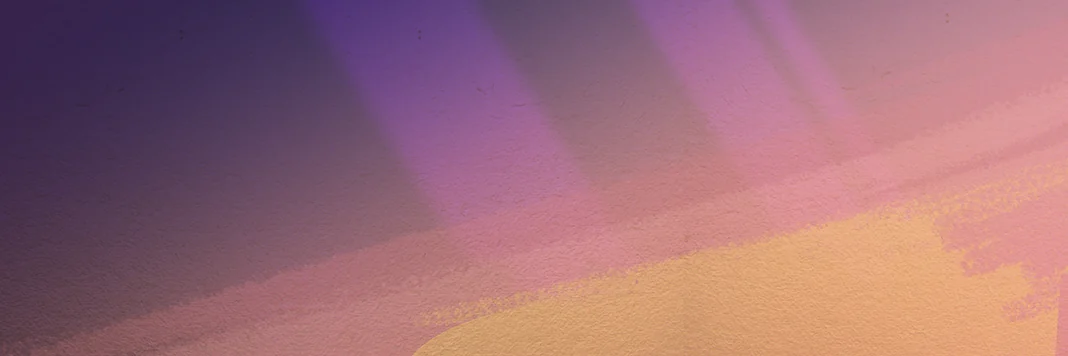
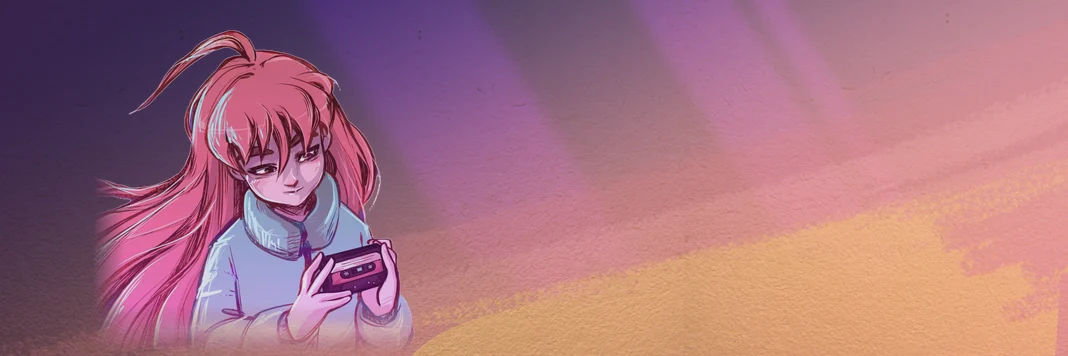
profile: Madeline portrait composited into the footer dusk band

Changed region(s): [[0.0927, 0.0927, 0.4017, 0.9888]]

diff --git a/tools/build_assets.py b/tools/build_assets.py
@@ -17,11 +17,13 @@ import os
 import sys
 from pathlib import Path
 
-from PIL import Image, ImageChops, ImageDraw, ImageFont, ImageStat
+from PIL import Image, ImageChops, ImageDraw, ImageFilter, ImageFont, ImageStat
+import numpy as np
 
 ROOT = Path(__file__).resolve().parents[1]
 OUT = ROOT / "assets"
 DEFAULT_SRC = ROOT.parent / "blog-ui"
+ART = ROOT.parent / "art"        # hand-made source art kept beside the palette
 
 PURPLE = (155, 135, 245)
 TINT_LIGHT = (58, 44, 92)         # heading text / icon glyph on the light page
@@ -30,6 +32,8 @@ CONTENT_W = 948          # GitHub renders the article at 948 CSS px on a 1280 vi
 Q_PAINT = 86             # painterly art: PSNR >= 44 dB at this point
 Q_PIXEL = 94             # pixel art / flat UI: keep edges clean
 Q_UI = 92
+DUSK = (128, 92, 158)    # the footer's violet ambient, used to grade the portrait
+
 
 
 # --------------------------------------------------------------------------- utils
@@ -112,8 +116,83 @@ def build_hero(src: Path, report: list) -> None:
     save(im, "hero.webp", Q_PAINT, report)
 
 
+def character_cutout(path: Path) -> Image.Image:
+    """Knock the white studio backdrop out of the portrait and keep a soft rim.
+
+    A plain colour key eats the near-white highlights in the hair and the pale
+    sweater, so the backdrop is flood-filled inward from the border instead: only
+    white that is connected to the frame is removed. The 2 px anti-aliased rim
+    that the fill leaves behind is turned into partial alpha and un-matted, which
+    stops a white halo from showing up once she sits on the violet dusk band.
+    """
+    art = Image.open(path).convert("RGB")
+    w, h = art.size
+    sentinel = (0, 255, 0)
+    work = art.copy()
+    px = work.load()
+
+    step = max(4, w // 160)
+    seeds = ([(x, 0) for x in range(0, w, step)] +
+             [(x, h - 1) for x in range(0, w, step)] +
+             [(0, y) for y in range(0, h, step)] +
+             [(w - 1, y) for y in range(0, h, step)])
+    for s in seeds:
+        r, g, b = px[s]
+        if (r, g, b) == sentinel or min(r, g, b) < 232:
+            continue
+        ImageDraw.floodfill(work, s, sentinel, thresh=26)
+
+    a = np.asarray(work).astype(np.float32)
+    bg = (a[:, :, 1] == 255) & (a[:, :, 0] == 0) & (a[:, :, 2] == 0)
+    dilated = np.asarray(
+        Image.fromarray(bg.astype(np.uint8) * 255).filter(ImageFilter.MaxFilter(5))
+    ) > 0
+    rim = dilated & ~bg
+
+    alpha = np.where(bg, 0.0, 1.0)
+    minc = a.min(axis=2)
+    alpha[rim] = np.clip((255.0 - minc[rim]) / 45.0, 0.0, 1.0)
+
+    al = alpha[:, :, None]
+    unmatted = np.clip((a - 255.0 * (1.0 - al)) / np.maximum(al, 1e-3), 0, 255)
+    out = Image.fromarray(np.dstack([unmatted, alpha * 255.0]).astype(np.uint8), "RGBA")
+    return trim(out)
+
+
+def composite_character(base: Image.Image, fig: Image.Image, x: int, height: int,
+                        fade: float = 0.16, fade_left: float = 0.10) -> Image.Image:
+    """Sit the portrait on the dusk band: grade it, dissolve its cut edges into the mist.
+
+    The grade is a light blend toward the band's own violet, so the pink hair and
+    the pale sweater still read as themselves instead of looking pasted on. The
+    bottom and left fades replace what would otherwise be two hard cuts — a bust
+    runs off the bottom edge of a 3:1 banner, and the illustration itself crops
+    the long hair at its left border.
+    """
+    k = height / fig.height
+    fig = fig.resize((max(1, round(fig.width * k)), height), Image.LANCZOS)
+
+    alpha = fig.getchannel("A")
+    rgb = fig.convert("RGB")
+    rgb = Image.blend(rgb, Image.new("RGB", rgb.size, DUSK), 0.12)
+    rgb = Image.eval(rgb, lambda v: int(v * 0.95))
+    fig = rgb.convert("RGBA")
+    fig.putalpha(alpha)
+
+    a = np.asarray(fig.getchannel("A")).astype(np.float32)
+    hh, ww = fig.height, fig.width
+    down = np.clip((hh - 1 - np.arange(hh, dtype=np.float32)) / max(1.0, hh * fade), 0.0, 1.0)
+    left = np.clip(np.arange(ww, dtype=np.float32) / max(1.0, ww * fade_left), 0.0, 1.0)
+    a = a * down[:, None] * left[None, :]
+    fig.putalpha(Image.fromarray(a.astype(np.uint8), "L"))
+
+    out = base.copy()
+    out.paste(fig, (x, base.height - fig.height), fig)
+    return out
+
+
 def build_footer(src: Path, report: list) -> None:
-    """Dusk sky over the cloud slope.
+    """Dusk sky over the cloud slope, with the portrait in the left foreground.
 
     `SummitEnd/08.png` is the character cut-out layer: flattened onto RGB it is a
     pure-black sheet whose right 45% is empty — a black hole on the light theme.
@@ -122,7 +201,15 @@ def build_footer(src: Path, report: list) -> None:
     """
     im = Image.open(os.path.join(src, "Atlases", "SummitEnd", "00.png")).convert("RGB")
     im = im.crop((0, 294, 1068, 650))
+
+    portrait = ART / "readme-end.jpg"
+    if portrait.exists():
+        fig = character_cutout(portrait)
+        im = composite_character(im, fig, x=92, height=326)
+    else:
+        print(f"    footer: portrait source missing ({portrait}), plain band used")
     save(im, "footer.webp", Q_PAINT, report)
+
 
 
 def build_mountain(src: Path, report: list) -> None:

diff --git a/README.md b/README.md
@@ -208,7 +208,7 @@ If any of this is close to what you're working on, email is the fastest way to r
 
 <div align="center">
 
-<img src="./assets/footer.webp" width="100%" alt="Above the summit: violet light and a slope of cloud" />
+<img src="./assets/footer.webp" width="100%" alt="Above the summit at dusk: violet light, a slope of cloud, and Madeline holding a cassette" />
 
 <br/>
 <div style="font-family:'Renogare','CelesteZH',sans-serif;font-size:14px">
